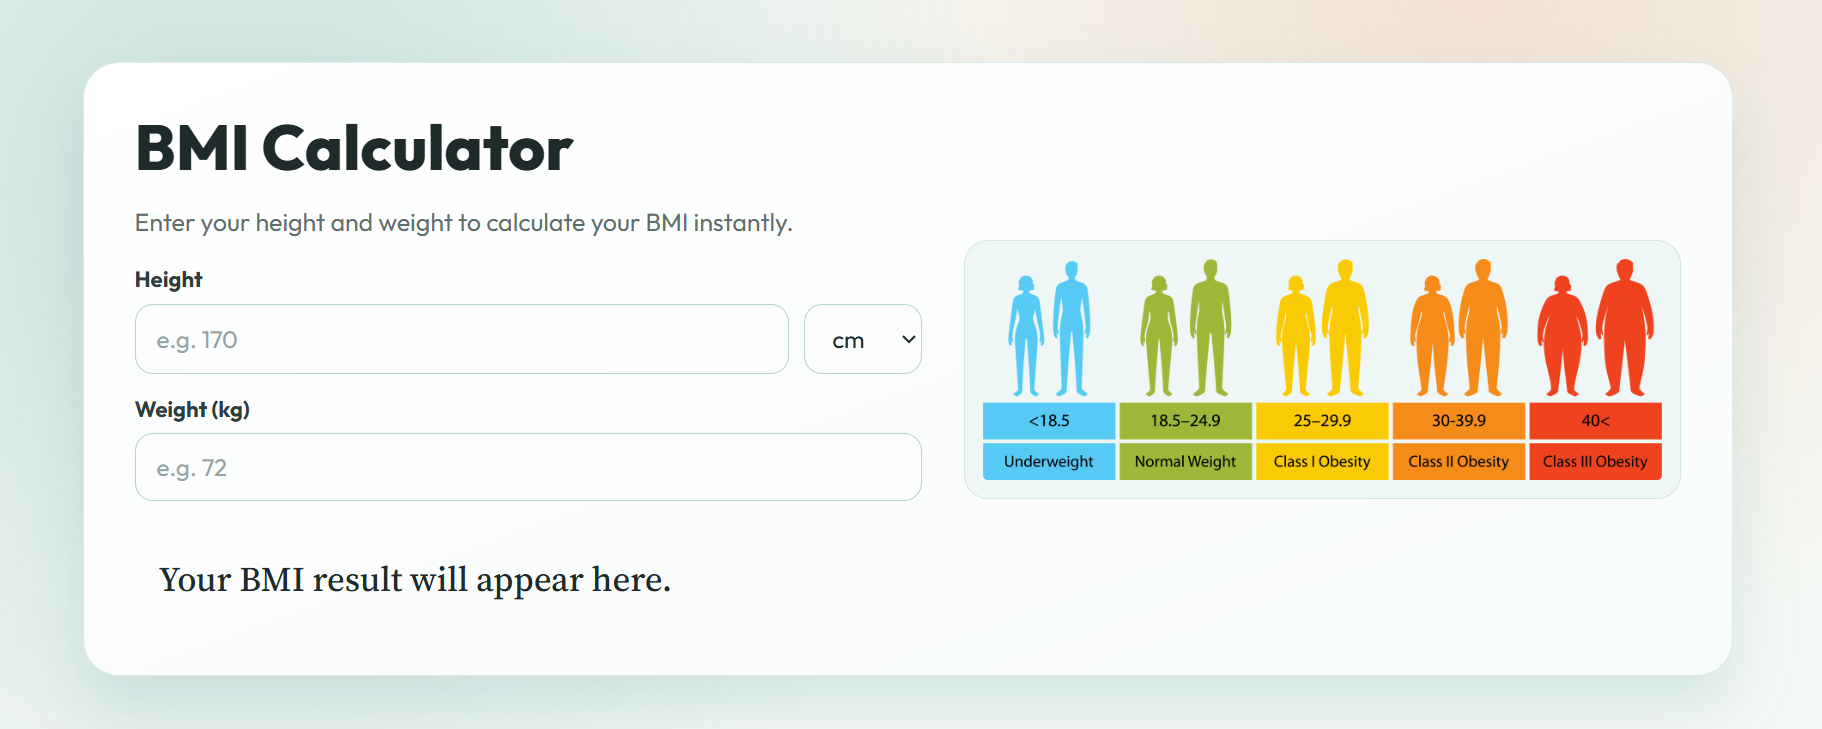
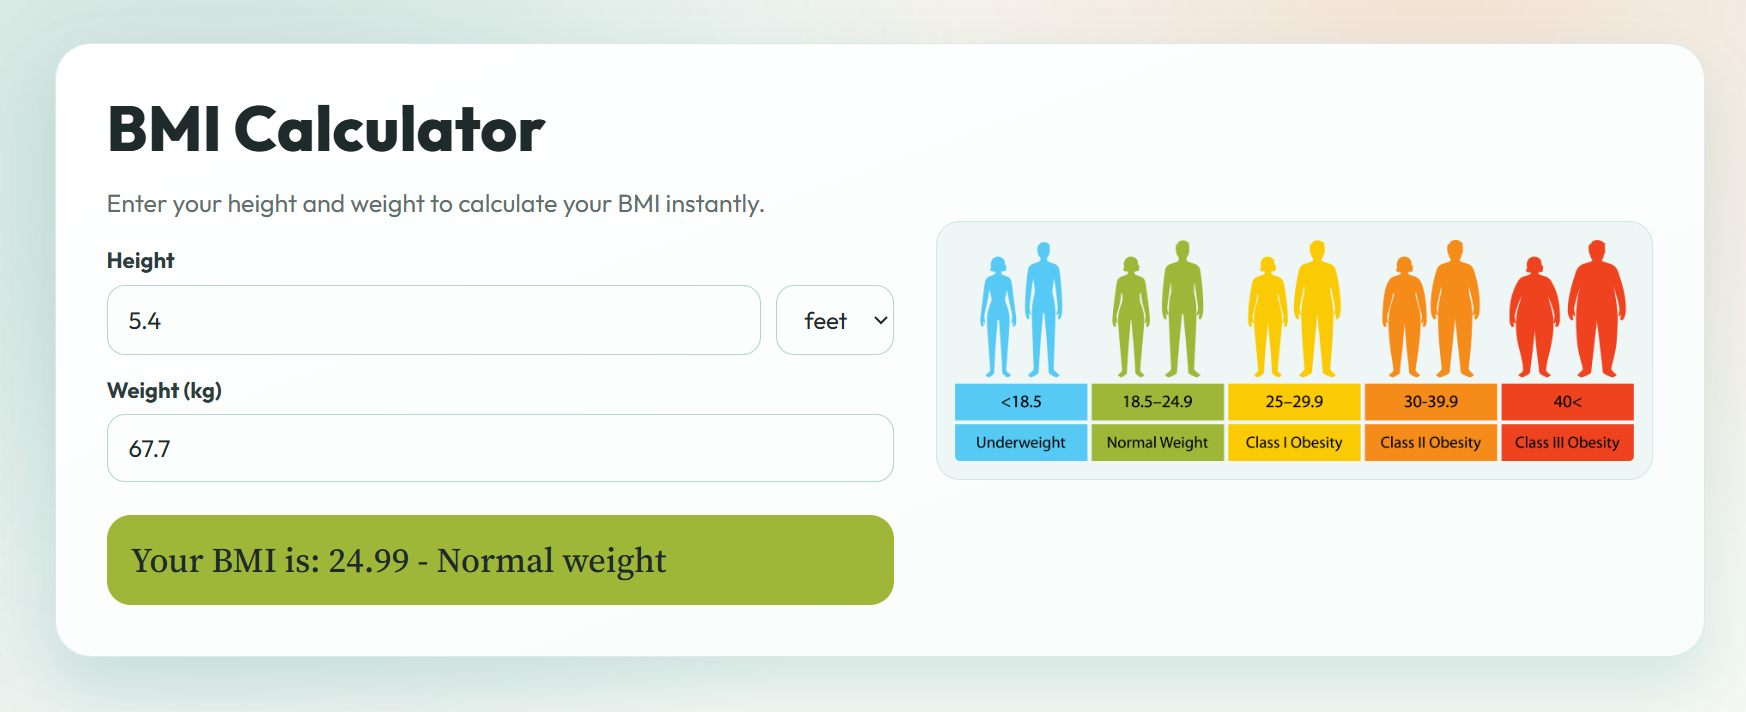
minor style updated

Changed region(s): [[0.0309, 0.0618, 0.9278, 0.927], [0.433, 0.0618, 0.9897, 0.6798], [0.4021, 0.4944, 0.433, 0.5253]]

diff --git a/index.html b/index.html
@@ -23,9 +23,9 @@
                         <div class="height-input-group">
                             <input type="number" id="height" name="height" required min="100" max="250" step="0.1" placeholder="e.g. 170">
                             <select id="height-unit" name="height-unit" aria-label="Height unit">
-                                <option value="cm" selected>cm</option>
+                                <option value="feet" selected>feet</option>
+                                <option value="cm">cm</option>
                                 <option value="inch">inch</option>
-                                <option value="feet">feet</option>
                             </select>
                         </div>
                     </div>
